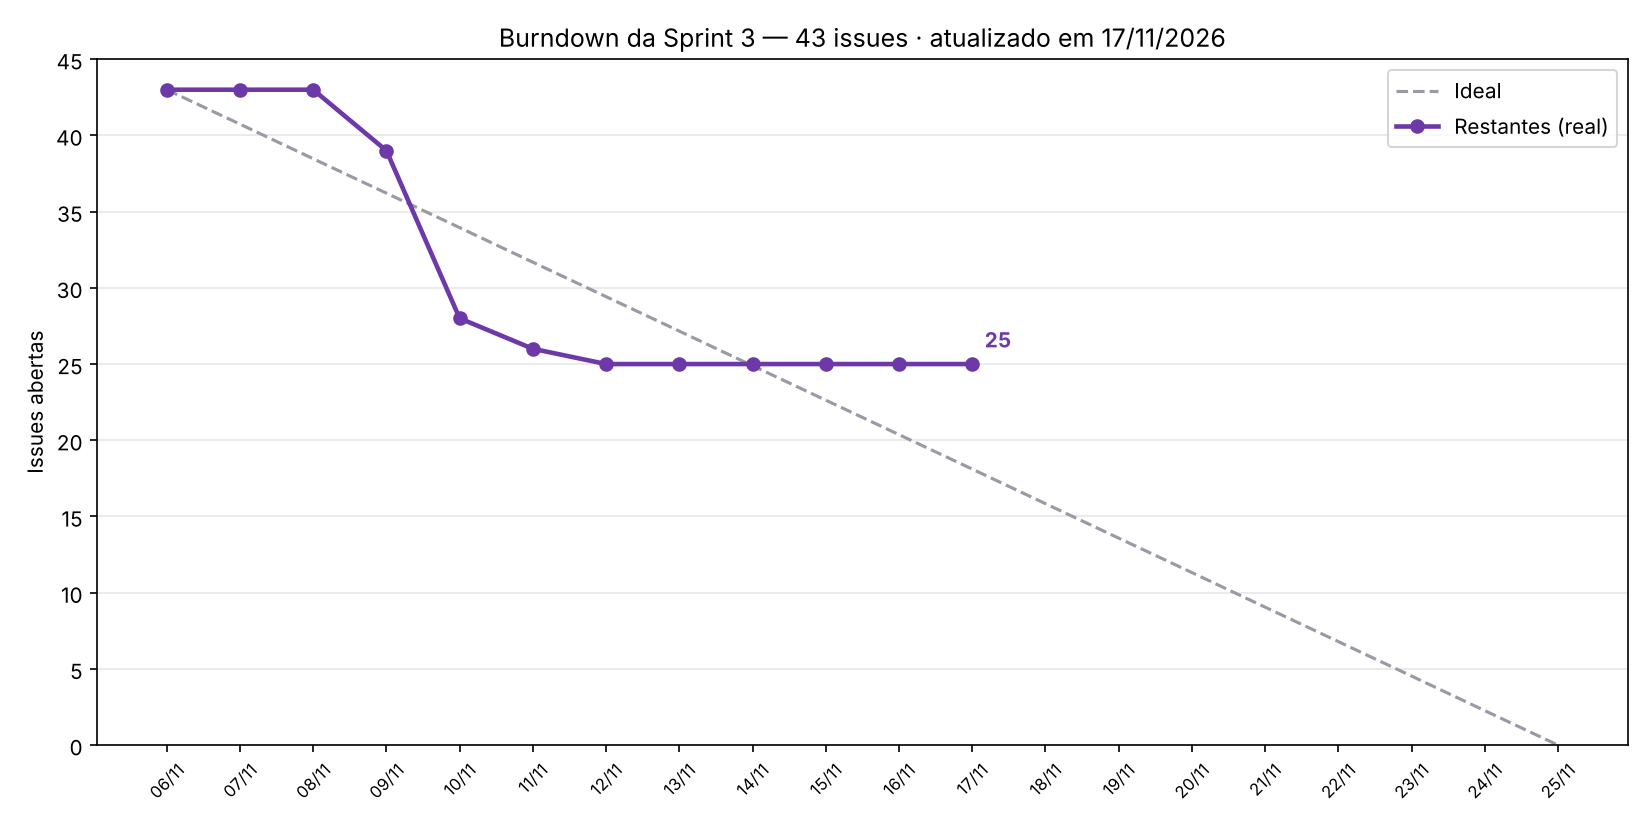
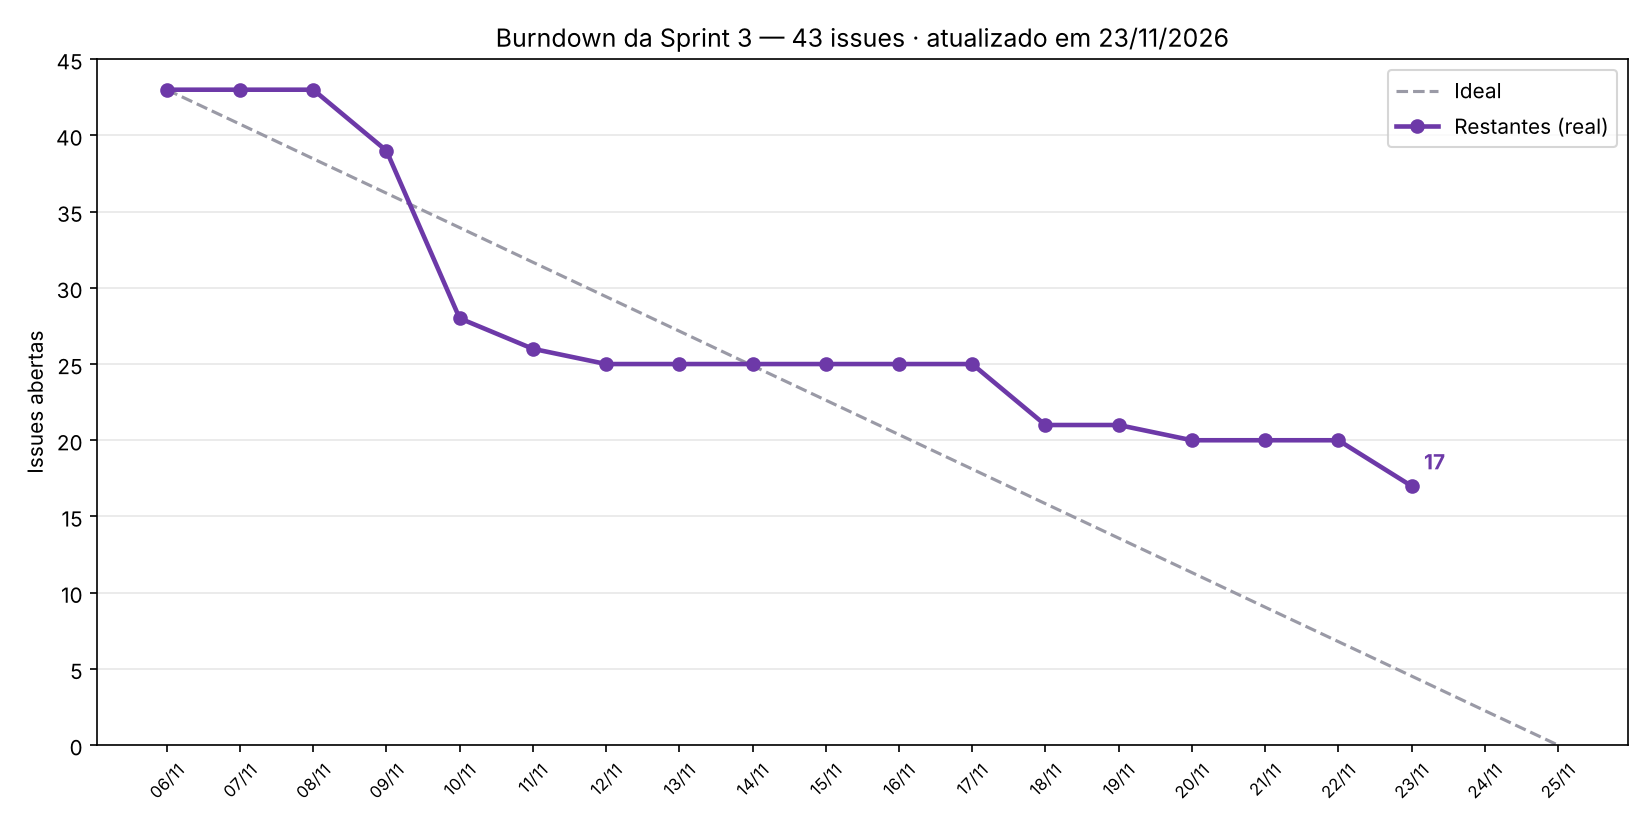
Atualiza o burndown da Sprint 3 até 23/11
Refs #104

diff --git a/docs/Gestao/burndown/README.md b/docs/Gestao/burndown/README.md
@@ -5,7 +5,7 @@
 
 ## Burndown da Sprint 3
 
-Sprint 3: 06/11 a 25/11/2026, com **43 issues** com a etiqueta `sprint:3` no [milestone da Sprint 3](https://github.com/Tech0wl-2026/ABP-Tech0wl/milestone/3). Situação em **17/11/2026**: **18 fechadas e 25 abertas**.
+Sprint 3: 06/11 a 25/11/2026, com **43 issues** com a etiqueta `sprint:3` no [milestone da Sprint 3](https://github.com/Tech0wl-2026/ABP-Tech0wl/milestone/3). Situação em **23/11/2026**: **26 fechadas e 17 abertas**.
 
 ![Burndown da Sprint 3](burndown-sprint-3.png)
 
@@ -27,14 +27,15 @@ python3 scripts/burndown.py 3 2026-11-06 2026-11-25
 
 O script regrava o PNG e os dois CSV. Atualize pelo menos a cada Daily de segunda, quarta e sexta, e no fechamento em 25/11, ajustando também a data e os números do parágrafo acima.
 
-### Leitura em 17/11
+### Leitura em 23/11
 
 - De 06/11 a 08/11 a linha ficou parada em 43: foram dias de planejamento e de distribuição das issues.
 - Entre 09/11 e 11/11 foram fechadas 17 issues, depois que o time passou a fechar o que já estava pronto (evidências da infraestrutura, telas de resultado, certificado, progresso e histórico).
-- De 12/11 a 17/11 nenhuma issue foi fechada: a linha está parada em 25 há seis dias e cruzou a ideal em 14/11. Hoje o time está **7 issues acima do ideal** (25 contra 18).
-- Faltam 8 dias para o fim da sprint. Para chegar a 0 em 25/11, o time precisa fechar cerca de 3 issues por dia.
-- Issues abertas por responsável: Abdi 12, Breno 7, Guilherme 3, Gabriel 3, Tiago 3, Miguel 2, Sophia 1 (issues compartilhadas contam para cada um).
-- Para recuperar: Abdi pode fechar as issues de backend que a API já atende (#14, #25, #41, #45, #49, #58, #59, #63, #69, #70, #77) só conferindo os testes, e a integração das telas à API (#105) destrava as issues de prova e certificado.
+- De 12/11 a 17/11 a linha ficou quase parada em 25.
+- A partir de 18/11 voltou a descer: 4 fechadas em 18/11 (DoD e DoR, cadastro, proteção de dados e Dailies), 1 em 20/11 (validação da prova) e 3 em 23/11 (desempenho, documentação da API e das funcionalidades).
+- Hoje o time está **17 issues abertas contra 4,5 do ideal**. Faltam 2 dias: para chegar a 0 em 25/11, seriam cerca de 8 fechamentos por dia.
+- Issues abertas por responsável: Abdi 11, Breno 3, Miguel 2, Guilherme 2, Tiago 1 (issues compartilhadas contam para cada um).
+- A maior parte do que resta são as 11 issues de backend do Abdi, que a API já atende e só precisam de conferência com os testes. As demais dependem da integração das telas à API (#105) e da Review final (#104).
 
 ## Burndown da Sprint 2
 
